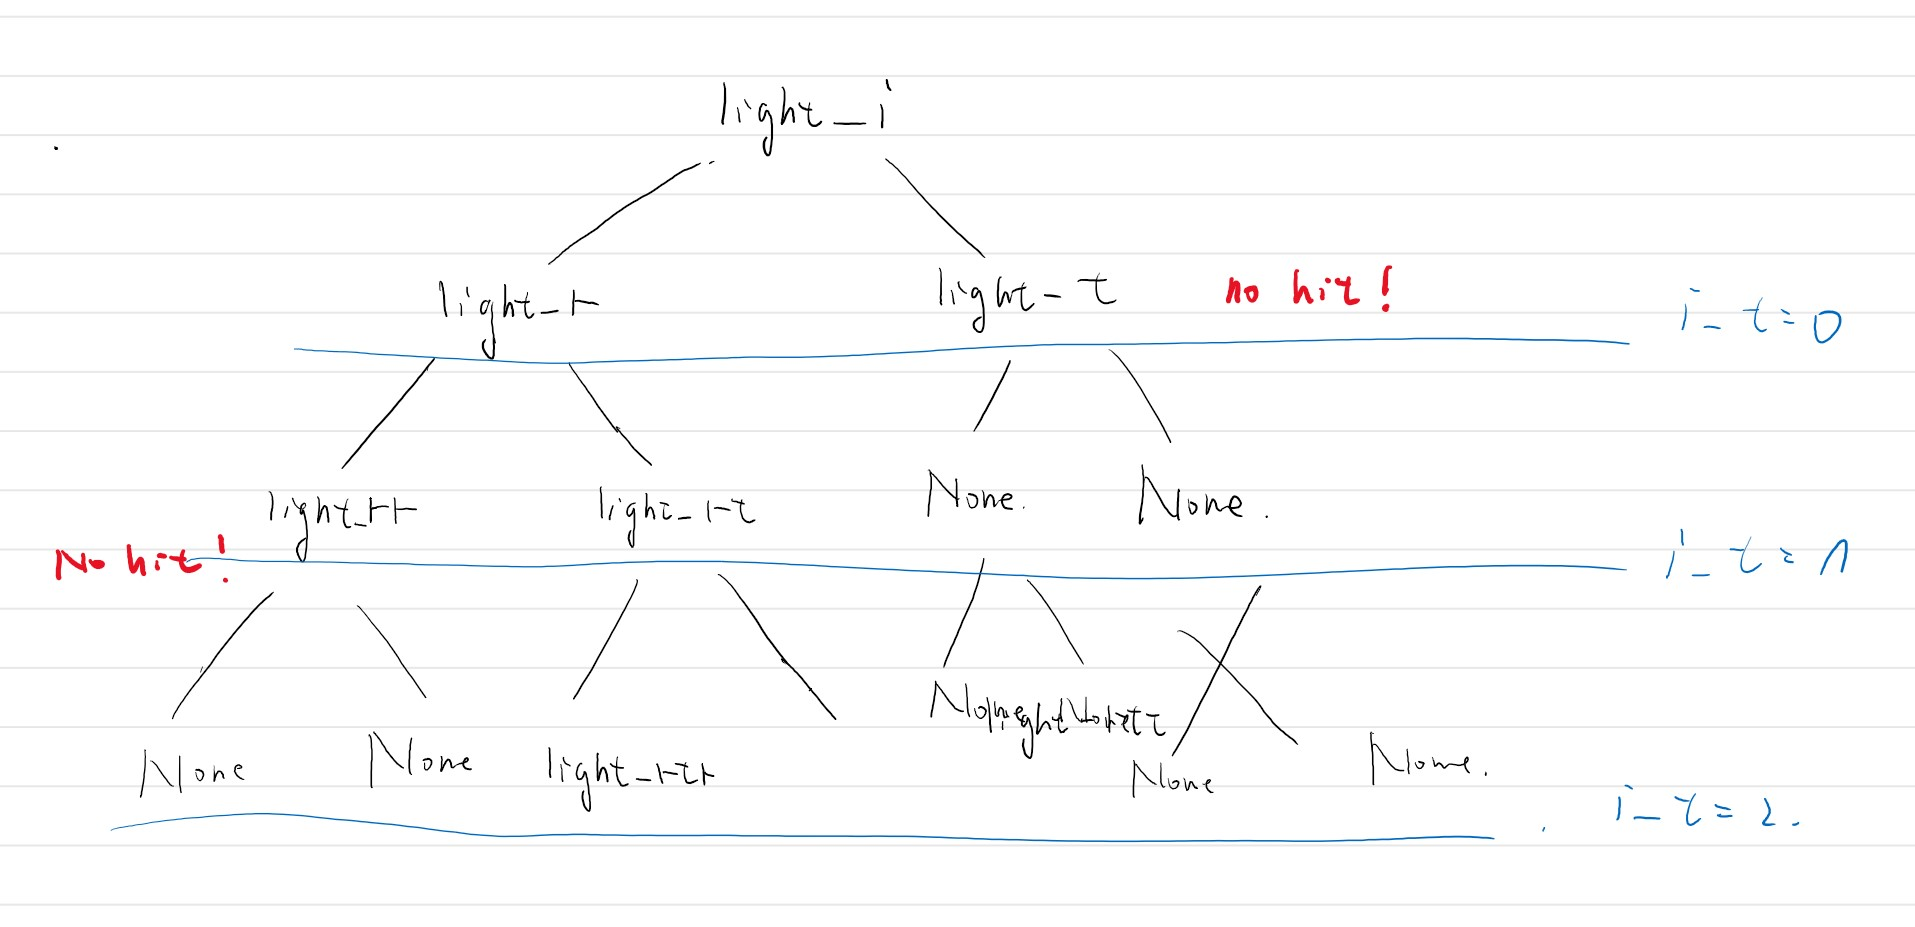
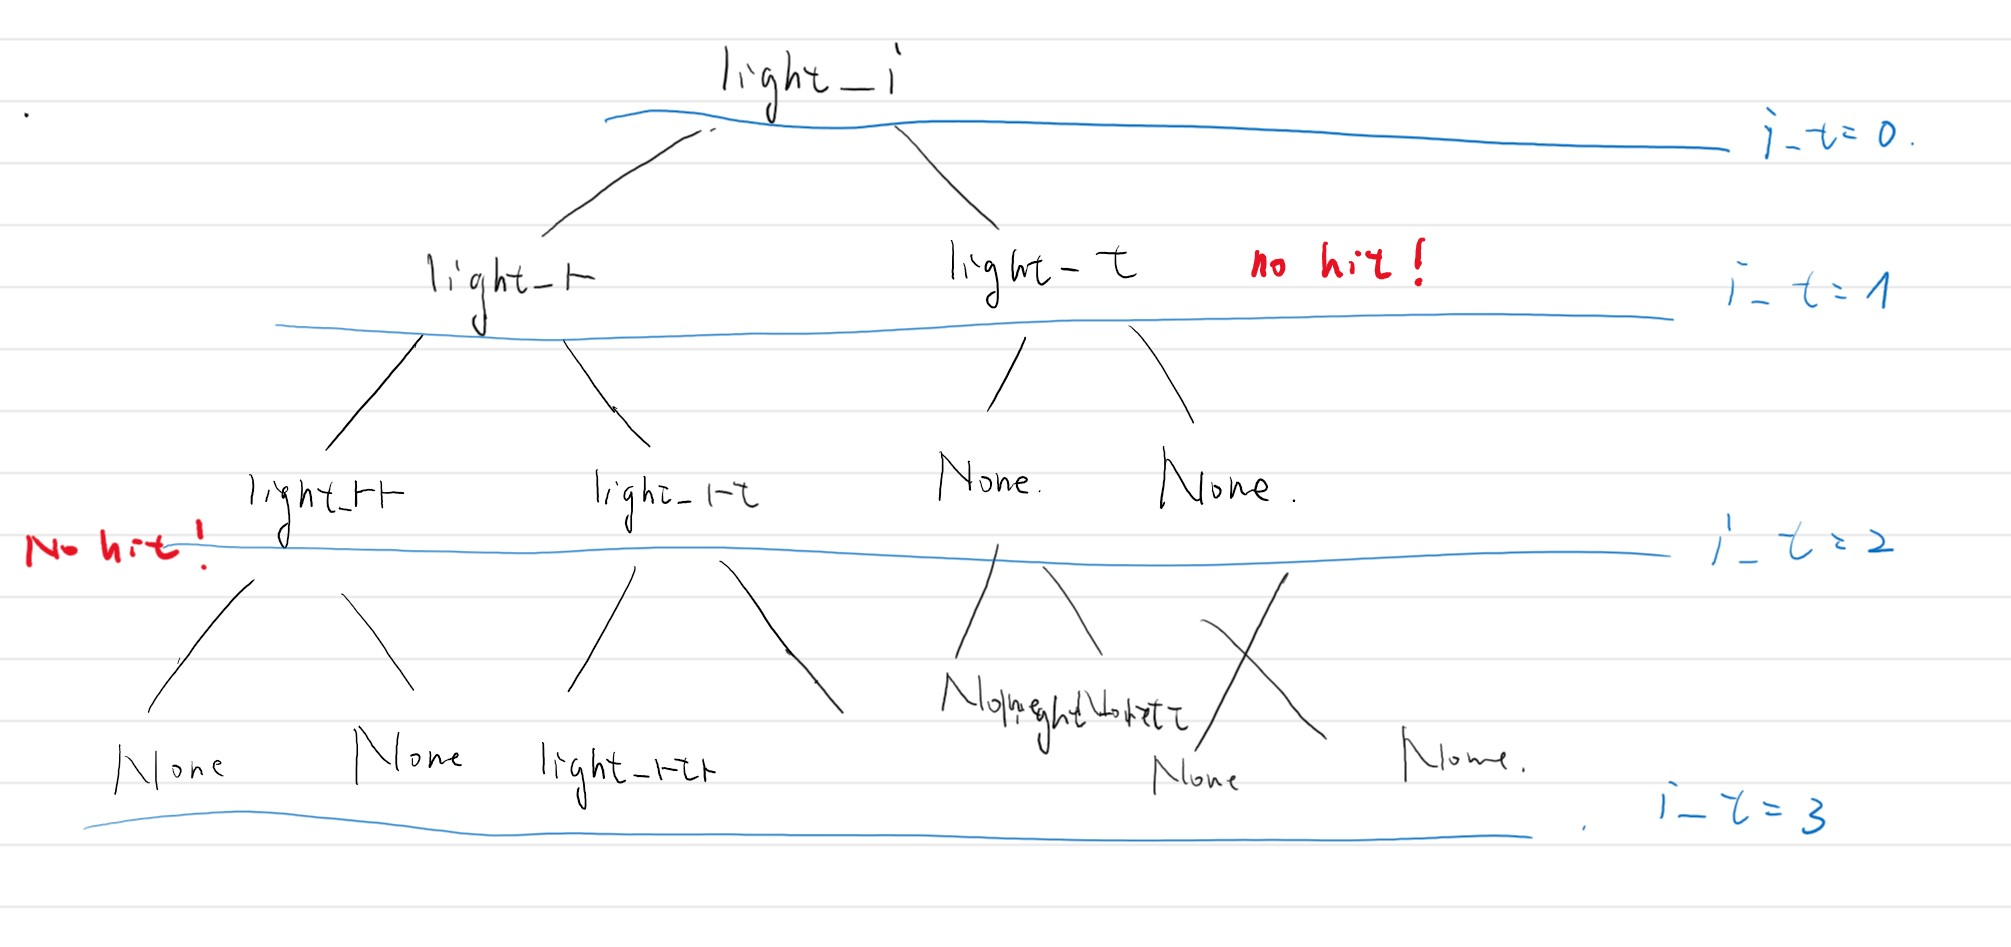
update Theory3.jpg and readme

diff --git a/README.md b/README.md
@@ -15,7 +15,7 @@ finally plot them all in a figure
 
 Class: Light, Surface will have this attributes, and Math will do something to get right calculating.
 
-This picture will show the Algorithm of Snell's Law. the Core methond is lightrun()
+This picture will show the Algorithm of Snell's Law. the Core method is lightrun()
 ![Math Module View2](/Image/Theory2.jpg)
 
 as alternative, for transmisson and reflection, we have transmisson2() and reflection2(),transmisson2 works good, reflection2 maybe have bugs, not very reliable .
